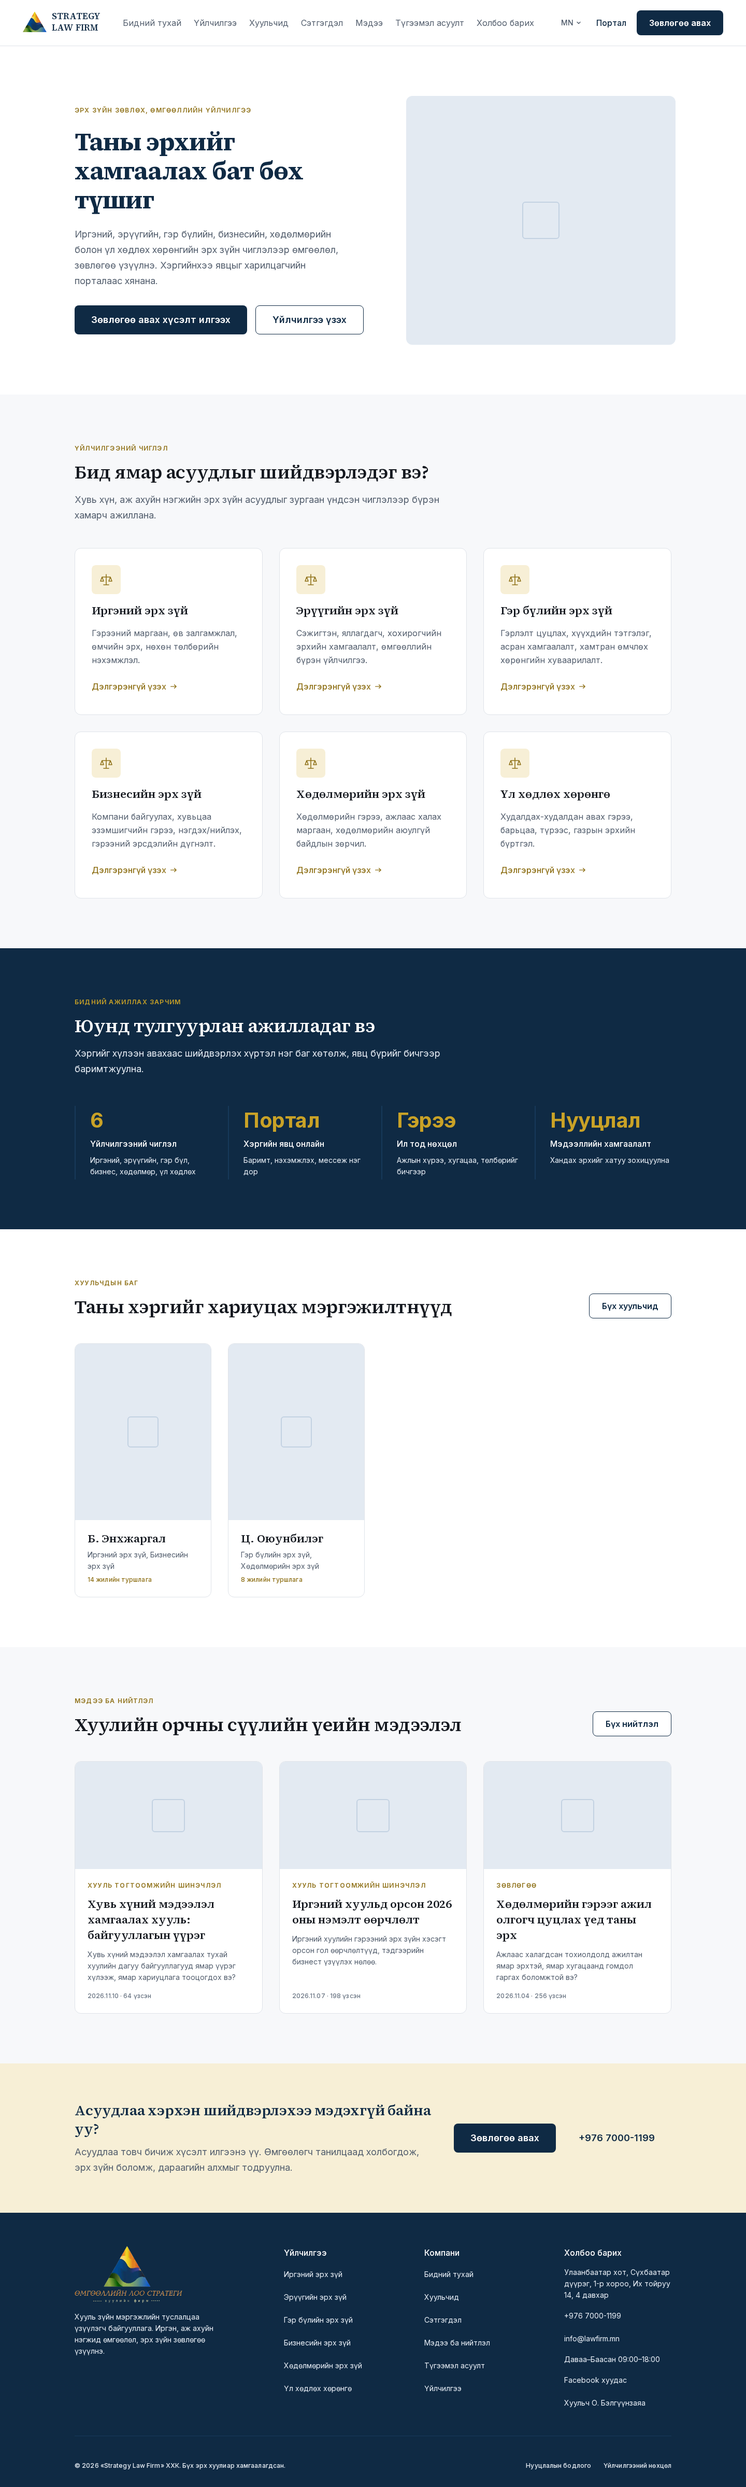
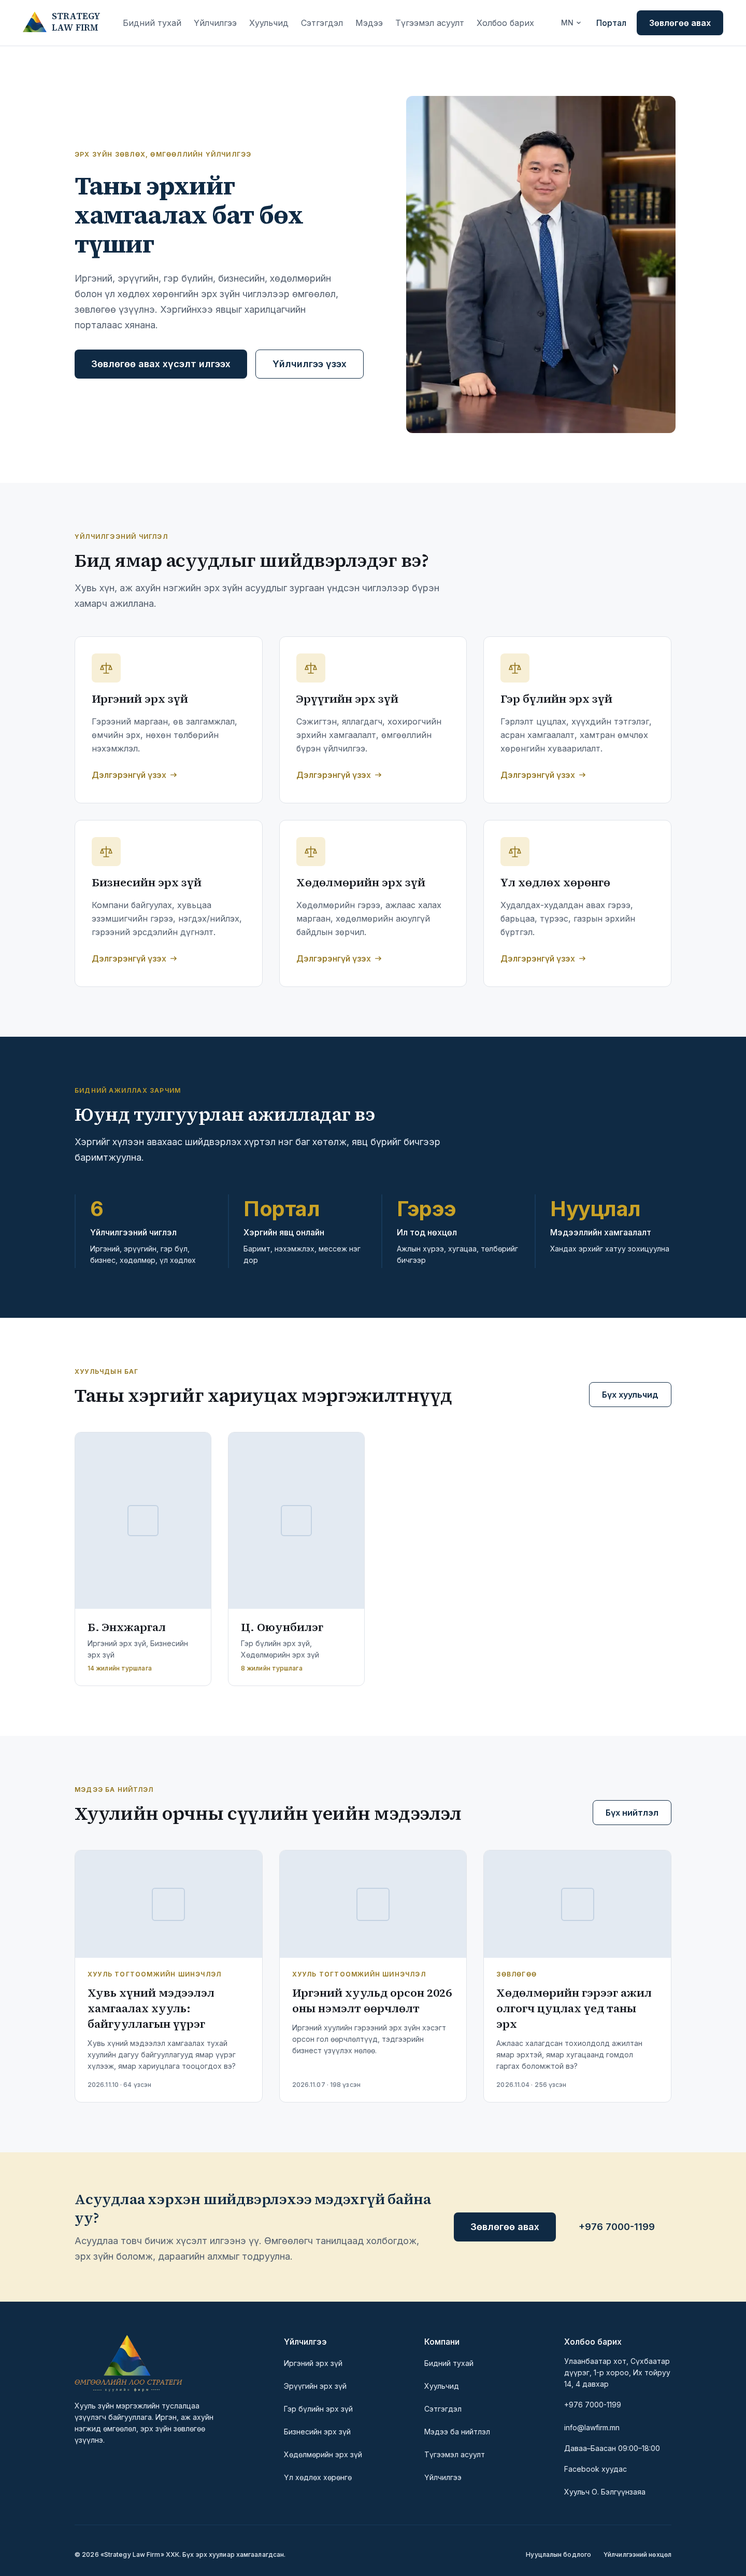
feat(web): put the lawyer's photo in the home hero
The grey placeholder block becomes the firm's portrait. Two crops of the same photo,
one request: 4:5 beside the text from `xl` up, where the hero turns two-column, and the
1:1 crop under the text below that — the tall frame on a phone would push both buttons
off the first screen. A `<picture>` with `getImageProps` keeps Next's optimizer (WebP,
srcset per DPR) while loading only the crop that will be shown; two <Image>s toggled
with `hidden` would download both.

The box is sized in CSS and the files carry their intrinsic size, so the image lands
without shifting anything: measured CLS is identical with the image, with it delayed
900ms, and with it blocked. It is now the LCP element at 564ms desktop / 588ms mobile
(local, best of three) against 632/608ms for the h1 it replaces as the largest paint.

`alt` is a placeholder — the lawyer's name and title go in once they are known.
`lawyer-card-4x5.jpg` is unused on purpose: it is for the lawyer profile page.

diff --git a/apps/web/src/app/[locale]/(site)/page.tsx b/apps/web/src/app/[locale]/(site)/page.tsx
@@ -1,7 +1,8 @@
 // Figma: 01 Public Site / Public / 01 Home / Desktop (15:19) + Mobile (24:1007)
+import { getImageProps } from 'next/image';
 import { getTranslations, setRequestLocale } from 'next-intl/server';
 import { Button } from '@/components/ui/button';
-import { ImagePlaceholder, LawyerCard, NewsCard, ServiceCard } from '@/components/ui/card';
+import { LawyerCard, NewsCard, ServiceCard } from '@/components/ui/card';
 import { OriginalLanguageNote, TestimonialCard } from '@/components/ui/testimonial-card';
 import { SERVICES } from '@/content/services';
 import { Link } from '@/i18n/navigation';
@@ -66,7 +67,7 @@ export default async function HomePage({ params }: { params: Promise<{ locale: s
               <Button asChild variant="secondary" size="lg" className="w-full md:w-auto"><Link href="/services">{t('hero.secondaryCta')}</Link></Button>
             </div>
           </div>
-          <ImagePlaceholder className="h-[220px] rounded-lg xl:h-[480px] xl:w-[520px] xl:shrink-0" markSize={72} />
+          <HeroPortrait alt={t('hero.imageAlt')} />
         </div>
       </section>
 
@@ -226,6 +227,47 @@ export default async function HomePage({ params }: { params: Promise<{ locale: s
         </div>
       </section>
     </>
+  );
+}
+
+/**
+ * The lawyer in the hero. Two crops of one photo: 4:5 beside the text from `xl` up, where the
+ * layout turns two-column, and the square crop below that — 4:5 across a phone screen would push
+ * the two call-to-action buttons out of the first screenful.
+ *
+ * `<picture>` rather than two `<Image>`s toggled with `hidden`: a display:none image is still
+ * downloaded, so the phone would pay for both files. `getImageProps` keeps the optimizer (AVIF/WebP,
+ * the srcset per DPR) behind that `<picture>`; what it cannot emit is the `<link rel=preload>` the
+ * `<Image>` component adds, so `priority` here means eager + fetchpriority=high on the element.
+ *
+ * Both boxes are sized in CSS and both files carry their intrinsic size, so nothing reflows when
+ * the image lands.
+ */
+const PORTRAIT = {
+  /** The layout breakpoint, not a guess about devices: below `xl` the image sits under the text. */
+  twoColumn: '(min-width: 1280px)',
+  tall: { src: '/brand/hero-4x5.jpg', width: 1086, height: 1357 },
+  square: { src: '/brand/hero-1x1.jpg', width: 1086, height: 1086 },
+};
+
+function HeroPortrait({ alt }: { alt: string }) {
+  // `priority` only takes the element off lazy loading here; getImageProps leaves fetchPriority to
+  // the caller, so the LCP hint is passed by hand.
+  const eager = { alt, priority: true, fetchPriority: 'high' } as const;
+  const tall = getImageProps({ ...PORTRAIT.tall, ...eager, sizes: '520px' });
+  const { props: square } = getImageProps({ ...PORTRAIT.square, ...eager, sizes: '(min-width: 440px) 420px, 100vw' });
+  return (
+    // The <picture> is the flex item and carries the box; `display: contents` would promote the
+    // <source> to an item of its own and the row would pay for a second 80px gap.
+    <picture className="block aspect-square w-full max-w-[420px] xl:aspect-[4/5] xl:w-[520px] xl:max-w-none xl:shrink-0">
+      <source media={PORTRAIT.twoColumn} srcSet={tall.props.srcSet} sizes="520px" />
+      <img
+        {...square}
+        // Spread already carries it; named again so jsx-a11y can see an alt on the element.
+        alt={alt}
+        className="h-full w-full rounded-lg object-cover"
+      />
+    </picture>
   );
 }
 

diff --git a/README.md b/README.md
@@ -158,6 +158,8 @@ law-firm/
 │   │       └── config/env.ts    zod env schema
 │   └── web/                     Next.js 15 (Figma "00 Design System"-ээс хэрэгжүүлсэн UI)
 │       ├── e2e/                 Playwright тестүүд + screenshot скрипт; global-setup.ts (DB цэвэрлэгээ)
+│       ├── public/brand/        лого, тэмдэг; нүүрний hero зураг (`hero-4x5` desktop, `hero-1x1` утас),
+│       │                        `lawyer-card-4x5` нь хуульчийн профайл DB-д үүсэх хүртэл хэрэглэгдэхгүй
 │       └── src/
 │           ├── app/globals.css  Figma variable → CSS var + Tailwind v4 @theme, text-h1…text-caption, shadow токен
 │           ├── app/(site)/      /, about, services[/slug], lawyers[/id], news[/slug], faq, contact, privacy, terms, 404
